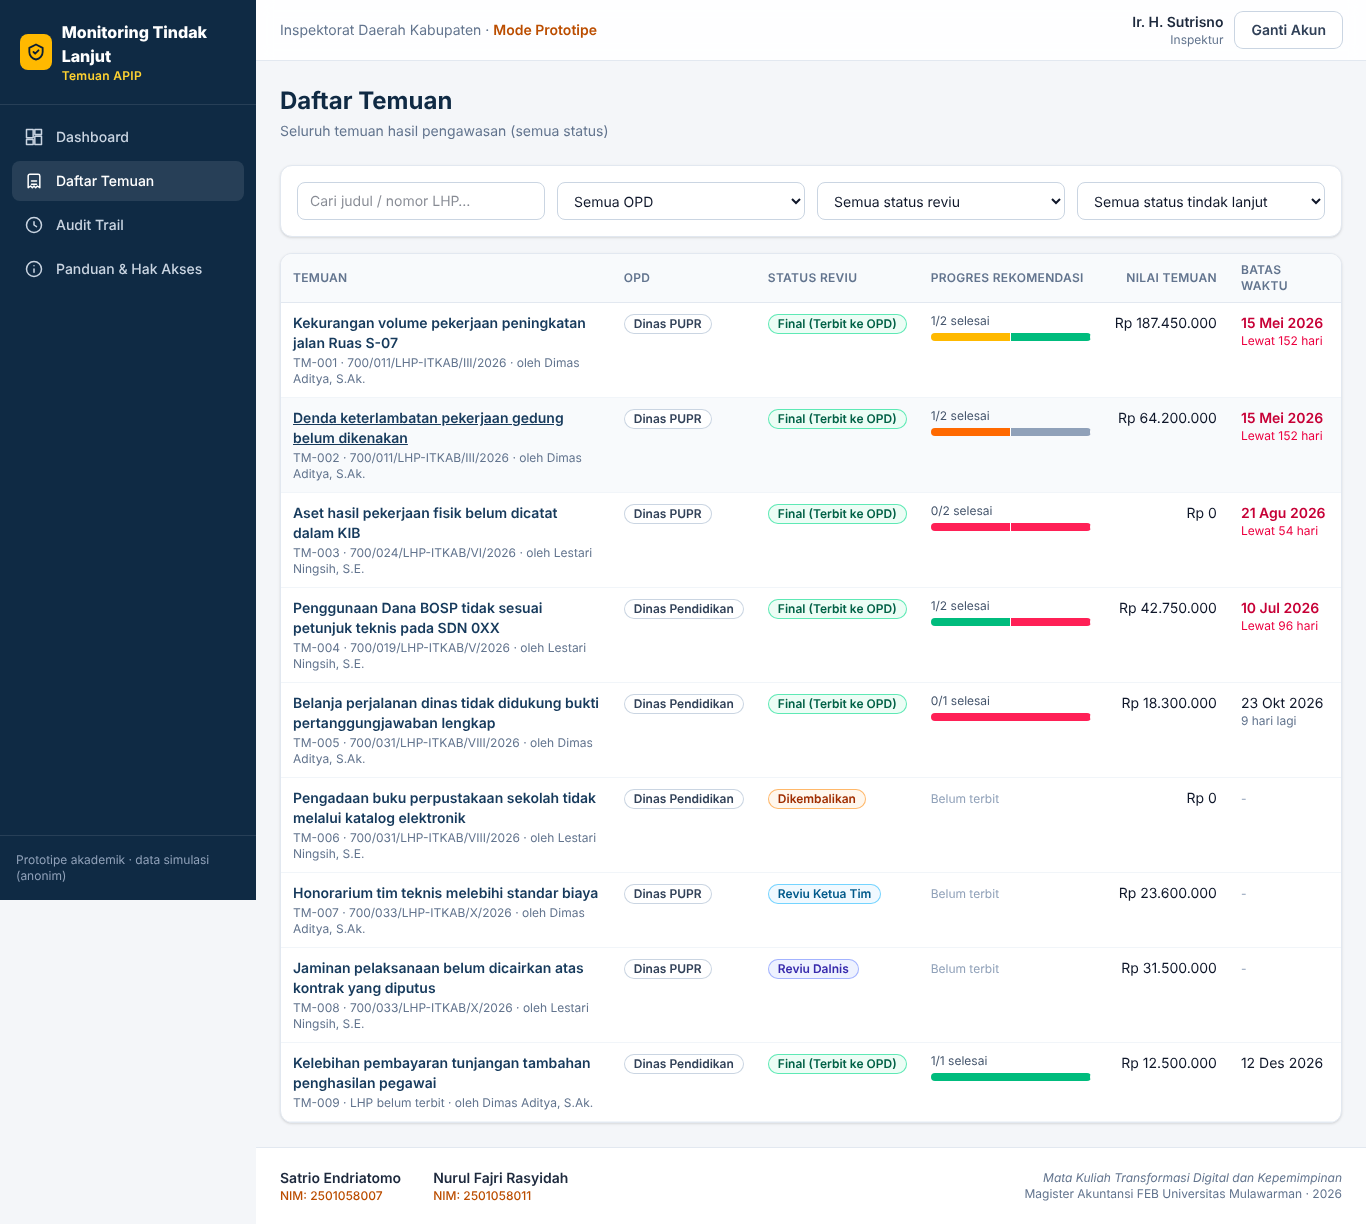
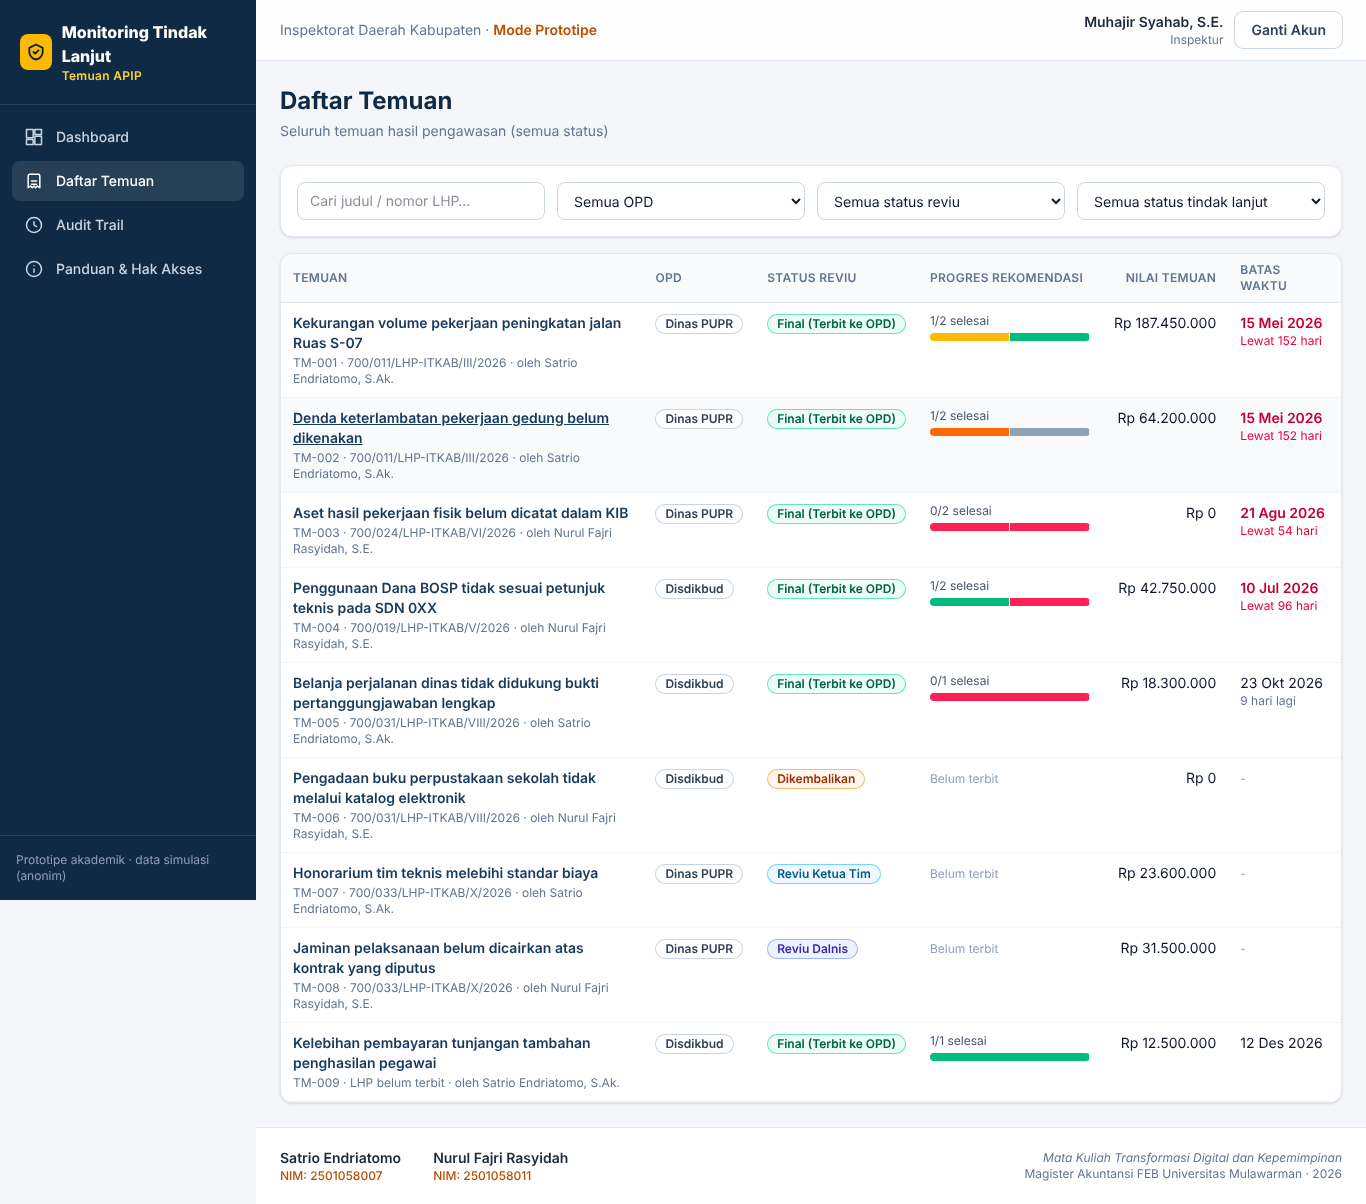
Add files via upload

diff --git a/src/lib/seed.js b/src/lib/seed.js
@@ -1,15 +1,15 @@
-// DATA SIMULASI — seluruh nama orang, penyedia, sekolah, dan nomor dokumen adalah fiktif/dianonimkan
+// DATA SIMULASI — nama pengguna demo atas persetujuan tim; nama penyedia, sekolah, dan nomor dokumen fiktif/dianonimkan
 // sesuai ketentuan UU No. 27 Tahun 2022 tentang Pelindungan Data Pribadi.
 
 export const USERS = [
-  { id: 'U-INS', nama: 'Ir. H. Sutrisno', peran: 'inspektur' },
-  { id: 'U-ADM', nama: 'Rina Marlina, S.Kom.', peran: 'admin_inspektorat' },
-  { id: 'U-DAL', nama: 'Bambang Wicaksono, S.E., M.Si.', peran: 'dalnis' },
-  { id: 'U-KT', nama: 'Sari Puspita, S.E., CGCAE', peran: 'ketua_tim' },
-  { id: 'U-AT1', nama: 'Dimas Aditya, S.Ak.', peran: 'anggota_tim' },
-  { id: 'U-AT2', nama: 'Lestari Ningsih, S.E.', peran: 'anggota_tim' },
-  { id: 'U-OPD1', nama: 'Admin Dinas PUPR', peran: 'admin_opd', opdId: 'PUPR' },
-  { id: 'U-OPD2', nama: 'Admin Dinas Pendidikan', peran: 'admin_opd', opdId: 'DISDIK' },
+  { id: 'U-INS', nama: 'Muhajir Syahab, S.E.', peran: 'inspektur' },
+  { id: 'U-ADM', nama: 'Uju', peran: 'admin_inspektorat' },
+  { id: 'U-DAL', nama: 'Luluk Chairun Nikmah, S.E.', peran: 'dalnis' },
+  { id: 'U-KT', nama: 'Ridho Haris Trih, S.Ak.', peran: 'ketua_tim' },
+  { id: 'U-AT1', nama: 'Satrio Endriatomo, S.Ak.', peran: 'anggota_tim' },
+  { id: 'U-AT2', nama: 'Nurul Fajri Rasyidah, S.E.', peran: 'anggota_tim' },
+  { id: 'U-OPD1', nama: 'Fauzi Abdiansyah, S.E.', peran: 'admin_opd', opdId: 'PUPR' },
+  { id: 'U-OPD2', nama: 'Eka Wahyuni H.', peran: 'admin_opd', opdId: 'DISDIK' },
 ];
 
 const jejak = (oleh, aksi, catatan, waktu) => ({ oleh, aksi, catatan, waktu });
@@ -115,7 +115,7 @@ export function buildSeed() {
     },
     {
       id: 'TM-005', nomorLhp: '700/031/LHP-ITKAB/VIII/2026', tanggalLhp: '2026-08-24',
-      namaPemeriksaan: 'Pemeriksaan Reguler Dinas Pendidikan TA 2025', opdId: 'DISDIK',
+      namaPemeriksaan: 'Pemeriksaan Reguler Dinas Pendidikan dan Kebudayaan TA 2025', opdId: 'DISDIK',
       judul: 'Belanja perjalanan dinas tidak didukung bukti pertanggungjawaban lengkap',
       kondisi: 'Terdapat SPJ perjalanan dinas yang tidak dilengkapi bukti tiket/boarding pass dan bukti penginapan.',
       kriteria: 'Permendagri 77 Tahun 2020 tentang Pedoman Teknis Pengelolaan Keuangan Daerah; Peraturan Bupati tentang perjalanan dinas.',
@@ -130,7 +130,7 @@ export function buildSeed() {
     },
     {
       id: 'TM-006', nomorLhp: '700/031/LHP-ITKAB/VIII/2026', tanggalLhp: '2026-08-24',
-      namaPemeriksaan: 'Pemeriksaan Reguler Dinas Pendidikan TA 2025', opdId: 'DISDIK',
+      namaPemeriksaan: 'Pemeriksaan Reguler Dinas Pendidikan dan Kebudayaan TA 2025', opdId: 'DISDIK',
       judul: 'Pengadaan buku perpustakaan sekolah tidak melalui katalog elektronik',
       kondisi: 'Pengadaan buku perpustakaan untuk beberapa sekolah dilakukan melalui pengadaan langsung, padahal barang tersedia di katalog elektronik.',
       kriteria: 'Perpres 16 Tahun 2018 dan perubahannya.',
@@ -181,7 +181,7 @@ export function buildSeed() {
     },
     {
       id: 'TM-009', nomorLhp: '', tanggalLhp: '',
-      namaPemeriksaan: 'Pemeriksaan Reguler Dinas Pendidikan TA 2025', opdId: 'DISDIK',
+      namaPemeriksaan: 'Pemeriksaan Reguler Dinas Pendidikan dan Kebudayaan TA 2025', opdId: 'DISDIK',
       judul: 'Kelebihan pembayaran tunjangan tambahan penghasilan pegawai',
       kondisi: 'Terdapat pegawai yang tetap menerima TPP penuh meskipun tingkat kehadiran di bawah ketentuan.',
       kriteria: 'Peraturan Bupati tentang Tambahan Penghasilan Pegawai ASN.',

diff --git a/src/app/page.jsx b/src/app/page.jsx
@@ -55,7 +55,7 @@ export default function LoginPage() {
                   {USERS.filter((u) => g.peran.includes(u.peran)).map((u) => (
                     <button key={u.id} onClick={() => masuk(u.id)} disabled={!ready}
                       className="group rounded-xl border border-slate-200 p-4 text-left transition hover:border-navy-700 hover:shadow-md disabled:opacity-60">
-                      <div className="text-sm font-bold text-navy-900 group-hover:text-navy-700">{PERAN[u.peran]}{u.opdId ? ` — ${u.opdId === 'PUPR' ? 'Dinas PUPR' : 'Dinas Pendidikan'}` : ''}</div>
+                      <div className="text-sm font-bold text-navy-900 group-hover:text-navy-700">{PERAN[u.peran]}{u.opdId ? ` — ${u.opdId === 'PUPR' ? 'Dinas PUPR' : 'Disdikbud'}` : ''}</div>
                       <div className="text-sm text-slate-600">{u.nama}</div>
                       <div className="mt-2 text-xs leading-relaxed text-slate-500">{DESKRIPSI_PERAN[u.peran]}</div>
                     </button>
@@ -65,7 +65,7 @@ export default function LoginPage() {
             ))}
           </div>
           <p className="mt-6 text-xs text-slate-500">
-            Seluruh data adalah simulasi dan dianonimkan (UU No. 27/2022 tentang PDP). Data tersimpan di browser masing-masing pengguna.
+            Data temuan adalah simulasi; nama penyedia, sekolah, dan nomor dokumen fiktif (UU No. 27/2022 tentang PDP). Data tersimpan di browser masing-masing pengguna.
           </p>
         </div>
       </main>

diff --git a/src/app/(app)/panduan/page.jsx b/src/app/(app)/panduan/page.jsx
@@ -25,12 +25,12 @@ const ALUR = [
 ];
 
 const SKENARIO = [
-  'Masuk sebagai Anggota Tim (Dimas) → buka draf "Kelebihan pembayaran TPP" → lengkapi → Simpan & Ajukan.',
+  'Masuk sebagai Anggota Tim (Satrio) → buka draf "Kelebihan pembayaran TPP" → lengkapi → Simpan & Ajukan.',
   'Ganti akun ke Ketua Tim → Dashboard menampilkan tugas reviu → buka temuan → Kembalikan dengan catatan.',
   'Ganti ke Anggota Tim → perbaiki sesuai catatan → ajukan lagi → Ketua Tim menyetujui.',
   'Ganti ke Dalnis → setujui → temuan final dan batas waktu 60 hari terisi otomatis.',
-  'Ganti ke Admin Dinas Pendidikan → hanya melihat temuan Disdik → unggah bukti tindak lanjut.',
-  'Ganti ke Admin Dinas PUPR → buktikan bahwa temuan Disdik tidak terlihat (pembatasan akses).',
+  'Ganti ke Admin Disdikbud → hanya melihat temuan Disdikbud → unggah bukti tindak lanjut.',
+  'Ganti ke Admin Dinas PUPR → buktikan bahwa temuan Disdikbud tidak terlihat (pembatasan akses).',
   'Ganti ke Admin Inspektorat → menu Tindak Lanjut → verifikasi "Sesuai" → dashboard ter-update.',
   'Masuk sebagai Inspektur → lihat dashboard semua OPD dan Audit Trail seluruh aktivitas.',
 ];

diff --git a/src/app/(app)/dashboard/page.jsx b/src/app/(app)/dashboard/page.jsx
@@ -111,7 +111,7 @@ export default function Dashboard() {
                   const r = ringkas(list.filter((t) => t.opdId === id));
                   return (
                     <tr key={id}>
-                      <td className="td font-medium">{id === 'PUPR' ? 'Dinas PUPR' : 'Dinas Pendidikan'}</td>
+                      <td className="td font-medium">{id === 'PUPR' ? 'Dinas PUPR' : 'Disdikbud'}</td>
                       {URUTAN_TL.map((k) => <td key={k} className="td text-right">{r.hitung[k]}</td>)}
                       <td className="td text-right">{rupiah(r.nilaiRek)}</td>
                       <td className={`td text-right font-semibold ${r.lewat ? 'text-rose-700' : ''}`}>{r.lewat}</td>

diff --git a/src/components/ui.jsx b/src/components/ui.jsx
@@ -16,7 +16,7 @@ export const BadgePeran = ({ user }) => (
     {PERAN[user.peran]}{user.opdId ? ` · ${user.opdId}` : ''}
   </Badge>
 );
-export const BadgeOPD = ({ id }) => <Badge cls="bg-white text-slate-700 ring-slate-300" >{id === 'PUPR' ? 'Dinas PUPR' : 'Dinas Pendidikan'}</Badge>;
+export const BadgeOPD = ({ id }) => <Badge cls="bg-white text-slate-700 ring-slate-300" >{id === 'PUPR' ? 'Dinas PUPR' : 'Disdikbud'}</Badge>;
 export const namaOPD = (id) => OPD[id] || id;
 
 export function PageHeader({ title, subtitle, actions }) {

diff --git a/src/lib/constants.js b/src/lib/constants.js
@@ -11,7 +11,7 @@ export const PERAN = {
 
 export const OPD = {
   PUPR: 'Dinas Pekerjaan Umum dan Penataan Ruang',
-  DISDIK: 'Dinas Pendidikan',
+  DISDIK: 'Dinas Pendidikan dan Kebudayaan',
 };
 
 // Status reviu temuan (alur internal Inspektorat)

diff --git a/README.md b/README.md
@@ -21,7 +21,7 @@ Proses yang semula berbasis surat, berkas fisik, dan rekap Excel diganti dengan 
    Sesuai, Belum Sesuai, atau Tidak Dapat Ditindaklanjuti.
 6. **Inspektur** dan **Admin Inspektorat** memantau dashboard semua OPD, batas waktu 60 hari, dan audit trail.
 
-OPD contoh: **Dinas PUPR** dan **Dinas Pendidikan**.
+OPD contoh: **Dinas PUPR** dan **Dinas Pendidikan dan Kebudayaan (Disdikbud)**.
 
 ## Fitur utama
 
